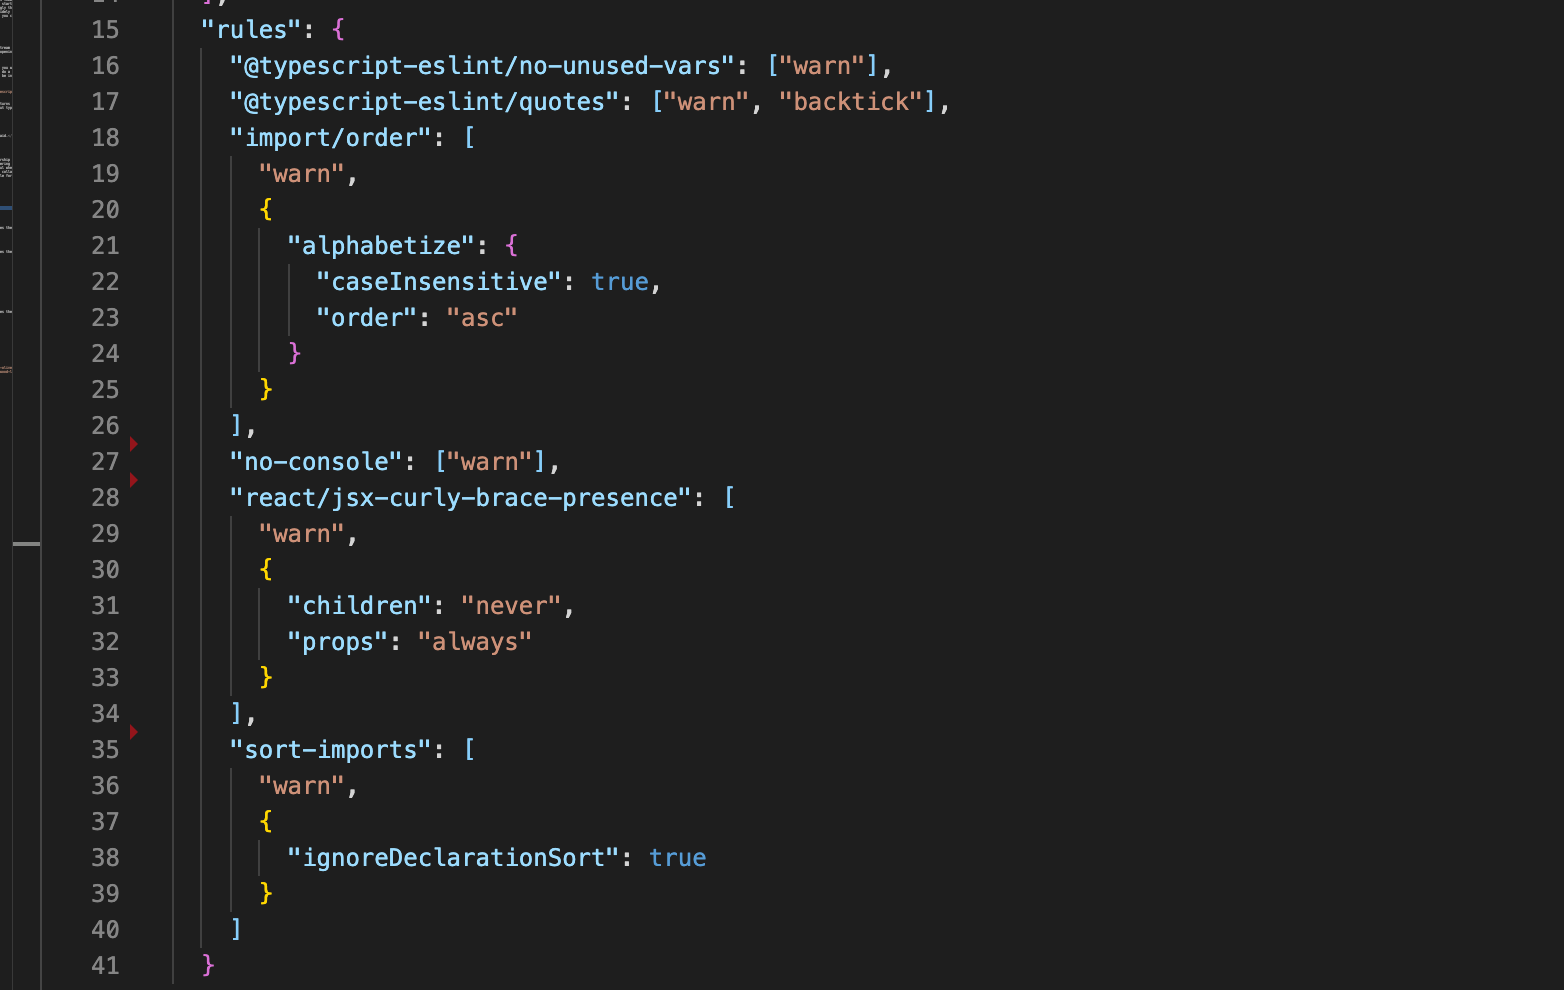
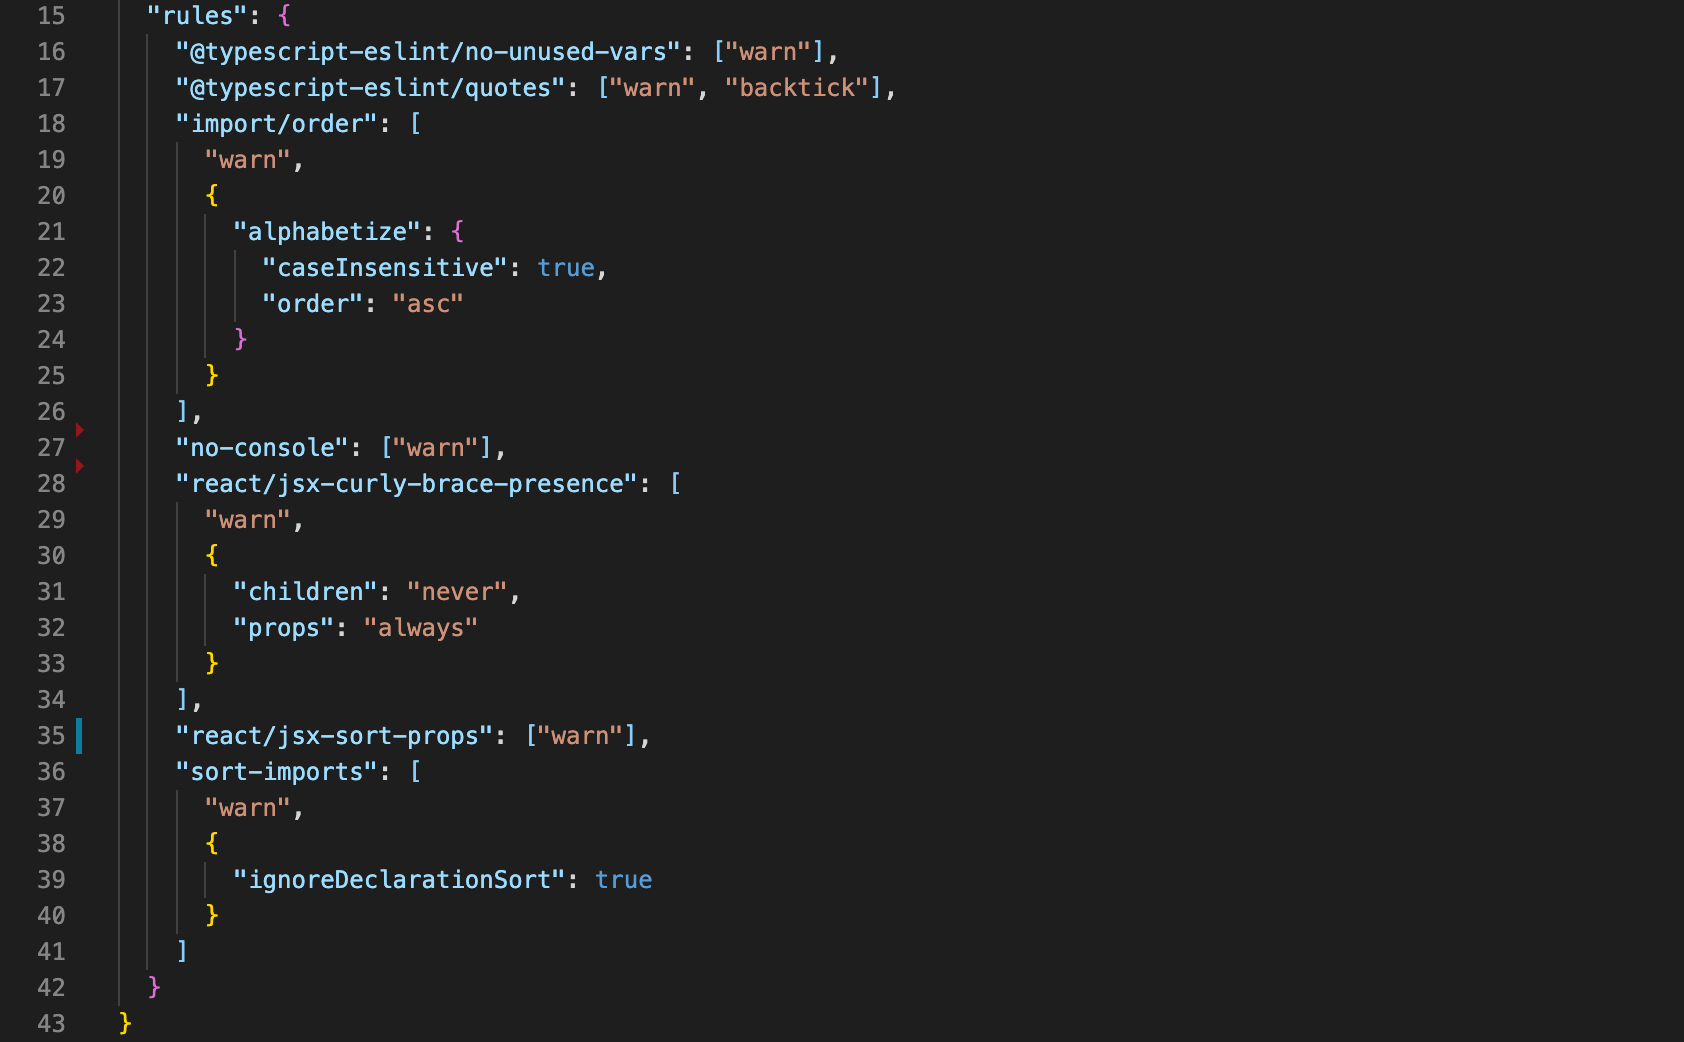
update vscode extensions post

Changed region(s): [[0.0, 0.0, 0.6138, 1.0], [0.2762, 0.6061, 0.3683, 0.6667]]

diff --git a/src/content/Post3TopVsCodeExtensions/Page.tsx b/src/content/Post3TopVsCodeExtensions/Page.tsx
@@ -127,6 +127,11 @@ const Page = () => (
         with so many options and conditions? Just pick the most versatile option
         and stick to it.
       </li>
+      <li>
+        Probably not the most necessary linting rule, I just prefer the
+        consistency of prop ordering on jsx elements so that it is easier to
+        identify similar elements for potential reusability.
+      </li>
     </ul>
     <img src={image04} />
     <a
